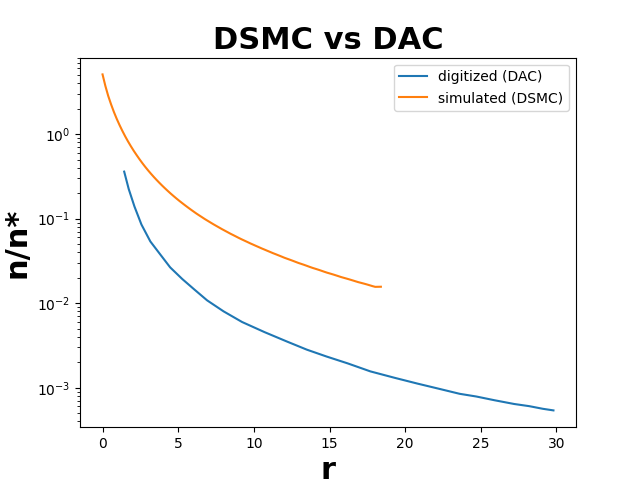
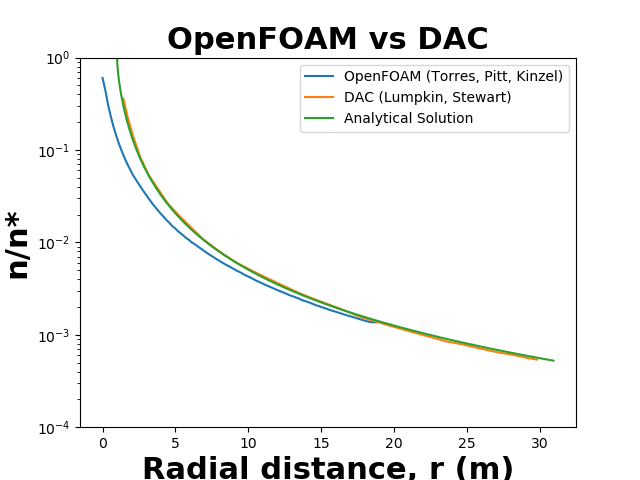
2d-wedge: update validation graphs to solve several issues

diff --git a/cases/2d-wedge/graphCaseValidation.py b/cases/2d-wedge/graphCaseValidation.py
@@ -26,41 +26,72 @@ digi_n = pd.read_csv(
     )
 
 digi_T = pd.read_csv(
-    curr_dir_path + '/T_Tstar_radius.dat',
+    curr_dir_path + '/T_Tstar_radius_DAC.dat',
     header = 0,
     sep = '\t',
     names = ['r', 'T_Tstar']
     )
 
+# Read in simulated data. 
 sim = pd.read_csv(
     curr_dir_path + '/postProcessing/sampleDict/0.3/horizontalLine_Ttra_Ar_rhoN_Ar.csv'
     )
 
+# Used to see what the values trend to. 
 print(sim['Ttra_Ar'])
 
 sim = sim[['distance', 'rhoN_Ar', 'Ttra_Ar']].dropna()
-sim['rhoN_Ar'] = sim['rhoN_Ar'] / 6.02e20
-sim['Ttra_Ar'] = sim['Ttra_Ar'] / 800.0
+sim['rhoN_Ar'] = sim['rhoN_Ar'] / 8.377e20
+sim['Ttra_Ar'] = sim['Ttra_Ar'] / 1000.0
     
 
-plt.title('DSMC vs DAC', fontdict = font_axis_publish)
-plt.ylabel('n/n*', fontdict = font_axis_publish)
-plt.xlabel('r', fontdict = font_axis_publish)
+# Producde Analytical Data
+def TTt_Ma(Ma, ga = 1.4):
+    return (ga + 1) / (2 + (ga - 1) * Ma ** 2)
 
-plt.plot(digi_n['r'], digi_n['n_nstar'], label = 'digitized (DAC)')
-plt.plot(sim['distance'], sim['rhoN_Ar'], label = 'simulated (DSMC)')
+def rrt_Ma(Ma, ga = 1.4):
+  rrt = (1 / TTt_Ma(Ma, ga)) ** ((ga + 1) / (ga - 1))
+  rrt = np.sqrt(np.sqrt(rrt) / Ma)
+  return rrt
+
+def nnt_Ma(Ma, ga = 1.4):
+  return TTt_Ma(Ma, ga) ** (1 / (ga - 1))
+
+def a(T, ga = 1.4, R = 287):
+    return np.sqrt(ga * R * T)
+
+Ma_domain = np.linspace(1, 25, 100) 
+ga = 1.67
+TTt = TTt_Ma(Ma_domain, ga = ga)
+rrt = rrt_Ma(Ma_domain, ga = ga)
+nnt = nnt_Ma(Ma_domain, ga = ga)
+
+print("Printing rrt")
+print(rrt)
+
+# Graph Results
+plt.title('OpenFOAM vs DAC', fontdict = font_axis_publish)
+plt.ylabel('n/n*', fontdict = font_axis_publish)
+plt.xlabel('Radial distance, r (m)', fontdict = font_axis_publish)
+
+plt.plot(sim['distance'], sim['rhoN_Ar'], label = 'OpenFOAM (Torres, Pitt, Kinzel)')
+plt.plot(digi_n['r'], digi_n['n_nstar'], label = 'DAC (Lumpkin, Stewart)')
+plt.plot(rrt, nnt, label = 'Analytical Solution')
 plt.legend()
 plt.yscale('log')
+plt.ylim(bottom = 1e-4, top = 1)
 plt.savefig(curr_dir_path + '/digitized_vs_analytical_n.png')
 plt.close()
 
-plt.title('DSMC vs DAC', fontdict = font_axis_publish)
+plt.title('OpenFOAM vs DAC', fontdict = font_axis_publish)
 plt.ylabel('T/T*', fontdict = font_axis_publish)
-plt.xlabel('r', fontdict = font_axis_publish)
+plt.xlabel('Radial distance, r (m)', fontdict = font_axis_publish)
 
-plt.plot(digi_T['r'], digi_T['T_Tstar'], label = 'digitized (DAC)')
-plt.plot(sim['distance'], sim['Ttra_Ar'], label = 'simulated (DSMC)')
+plt.plot(sim['distance'], sim['Ttra_Ar'], label = 'OpenFOAM (Torres, Pitt, Kinzel)')
+plt.plot(digi_T['r'], digi_T['T_Tstar'], label = 'DAC (Lumpkin, Stewart)')
+plt.plot(rrt, TTt, label = 'Analytical Solution')
 plt.legend()
 plt.yscale('log')
+plt.ylim(bottom = 1e-3, top = 1)
 plt.savefig(curr_dir_path + '/digitized_vs_analytical_T.png')
 plt.close()
